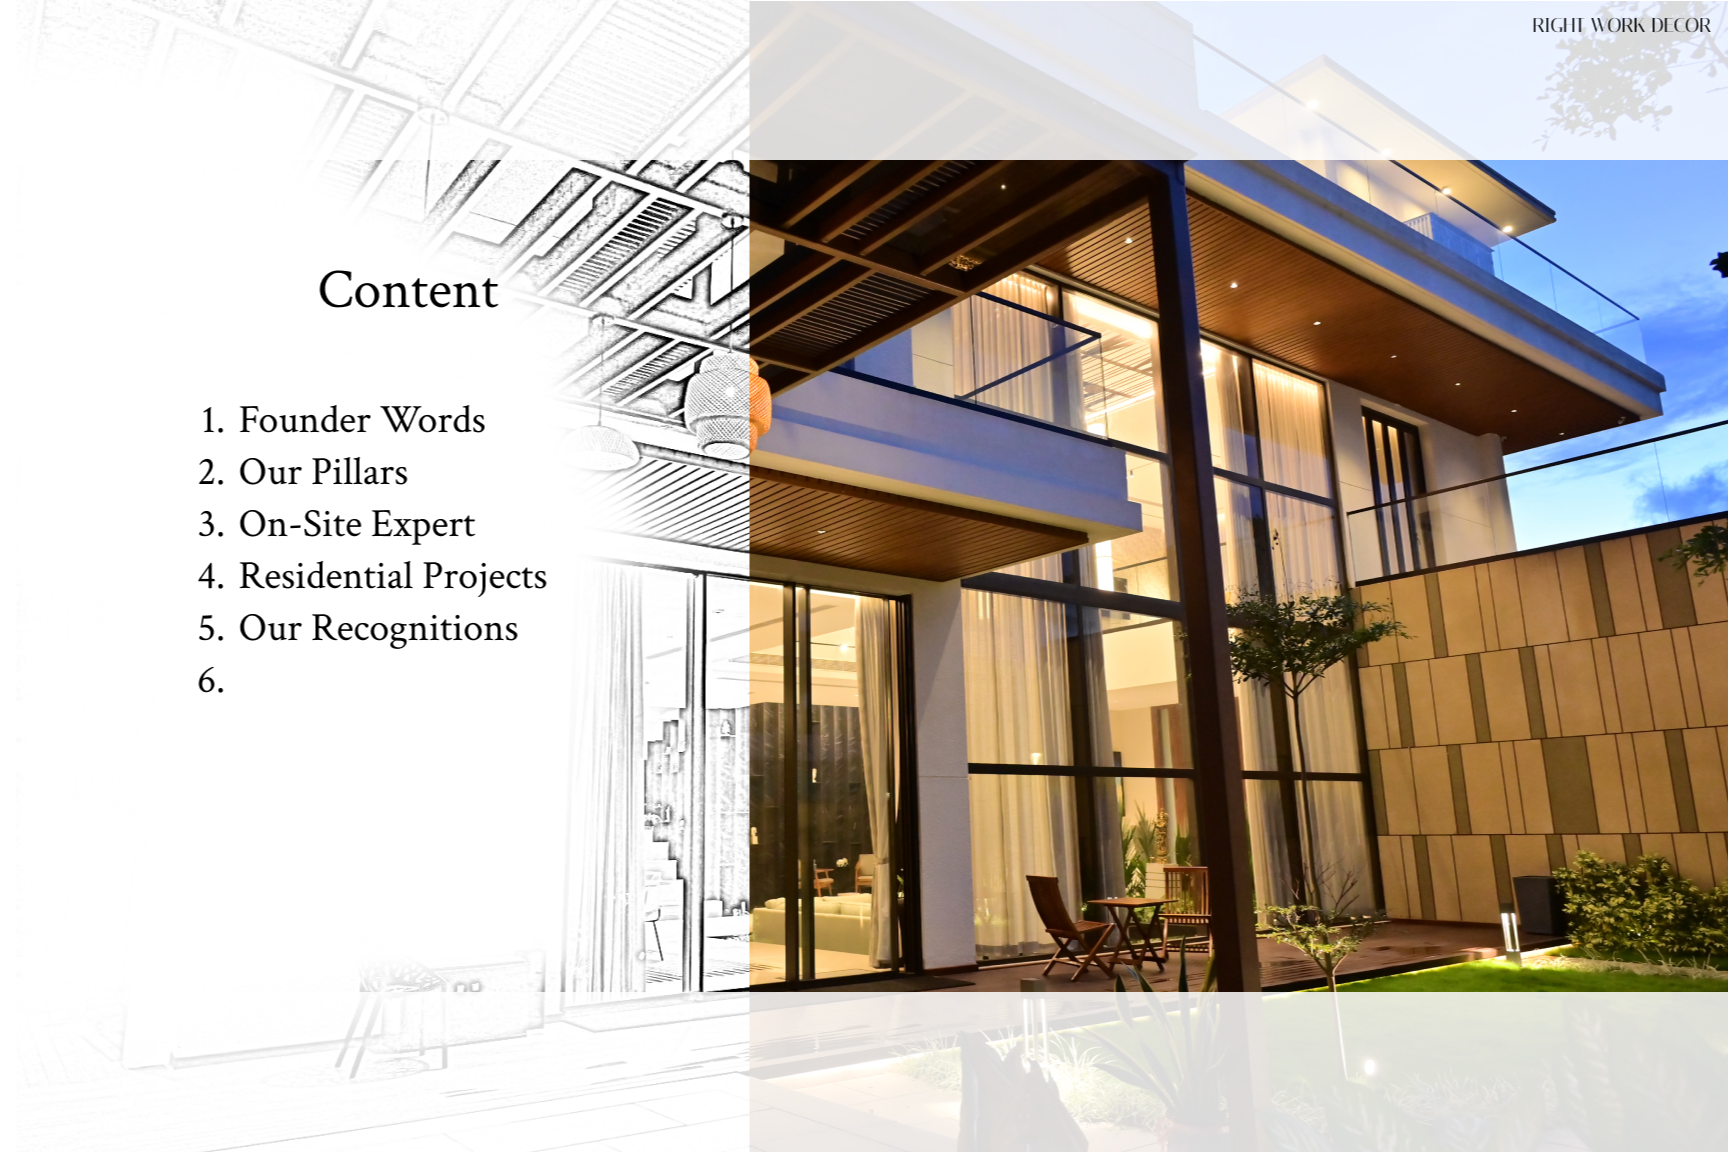
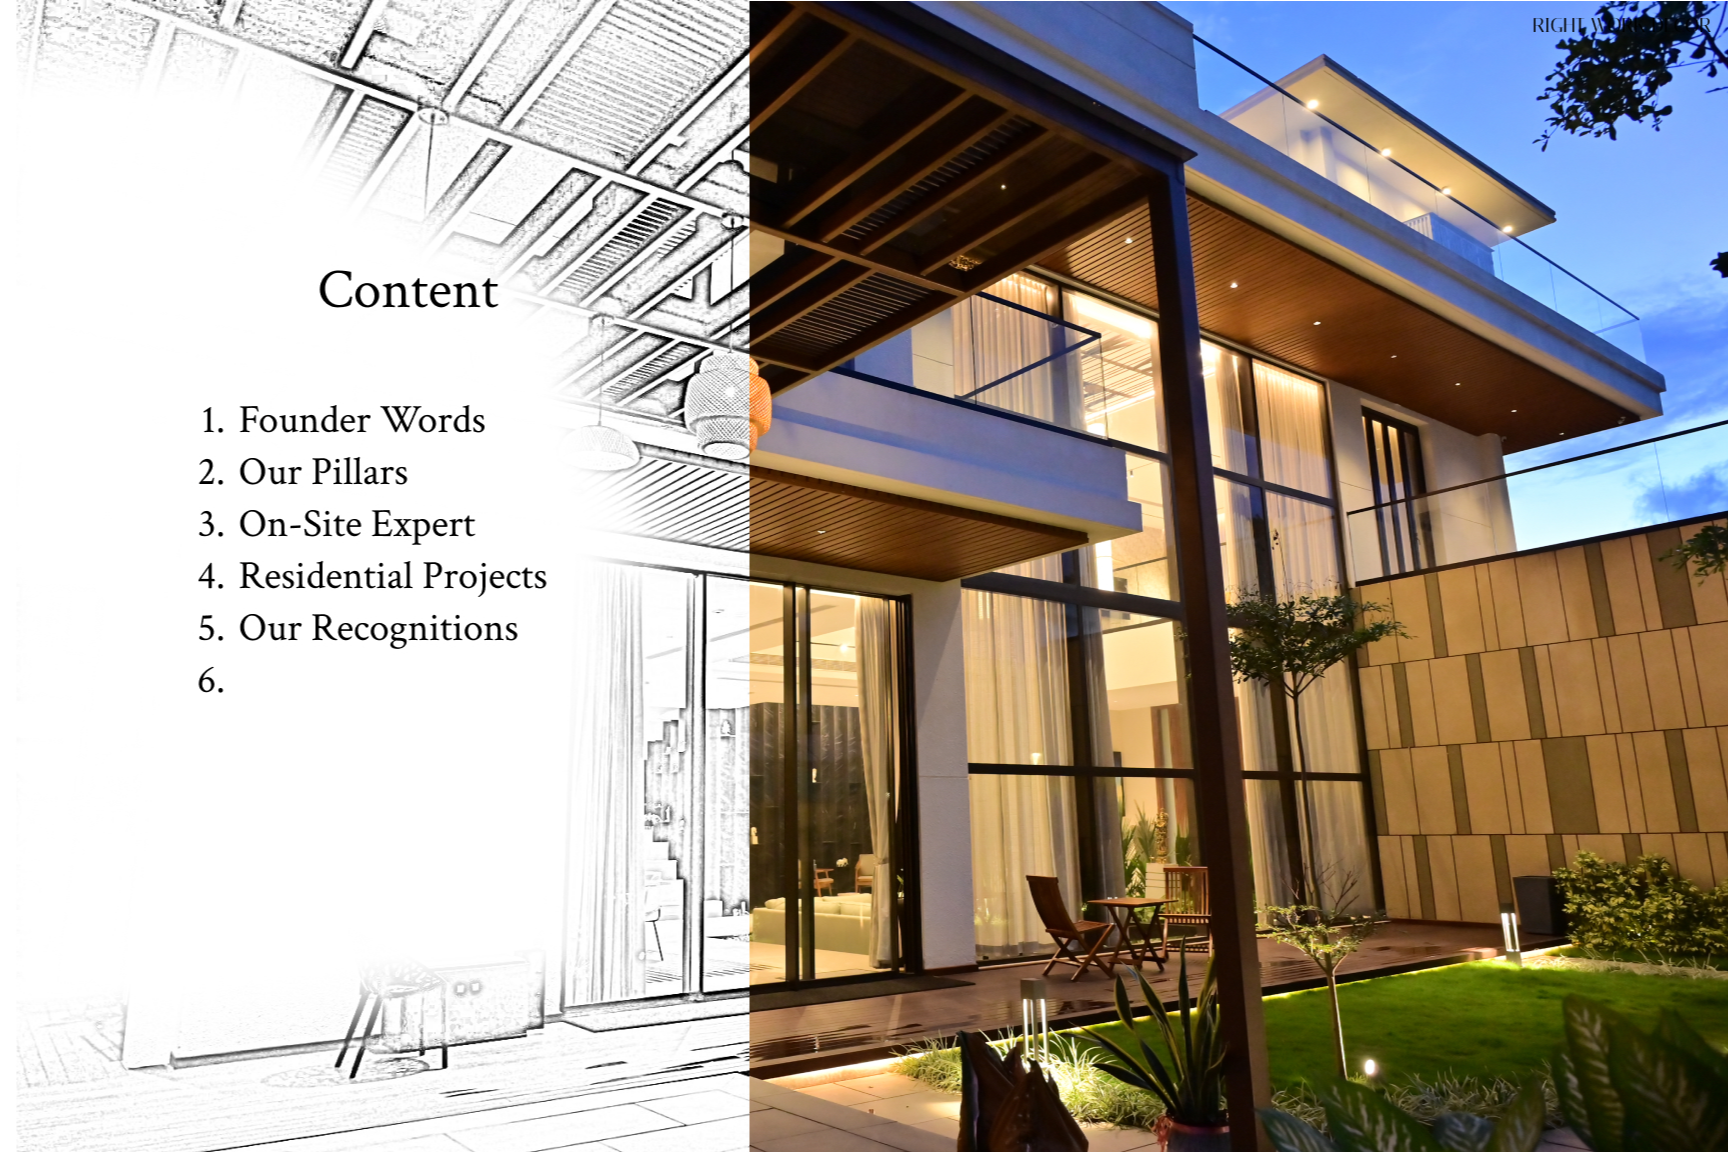
founder page

Changed region(s): [[0.0, 0.0, 1.0, 0.1562], [0.0625, 0.8438, 1.0, 1.0]]

diff --git a/Index.html b/Index.html
@@ -16,28 +16,35 @@
      <img src="2 Cover Page.jpg" alt="Cover Page" />
     </div>
     <div>
-      <img src="left-half.png" alt="" />
+      <img src="who are we.png" alt="" />
     </div>
     <div>
-      <img src="right-half.png" alt="" />
+      <img src="content.png" alt="" />
 
     </div>
     <div>
-      <img src="pillars_left.png" alt="" />
+      <img src="founder l.png" alt="" />
 
     </div>
     <div>
-      <img src="pillars_right.png" alt="" />
+      <img src="founder r.png" alt="" />
     </div>
        <div>
-      <img src="pillars_right.png" alt="" />
-    </div>
-       <div>
-      <img src="Tech_left.png" alt="" />
+      <img src="pillar l.png" />
     </div>
     <div>
-      <img src="Tech_right.png" alt="" />
+      <img src="pillar r.png" />
     </div>
+       <div>
+      <img src="tech l.png" alt="" />
+    </div>
+    <div>
+      <img src="tech r.png" alt="" />
+    </div>
+    <div>
+      <img src="2 Cover Page.jpg" alt="" />
+    </div>
+    
     <div class="hard"></div>
     <div class="hard">Thank You <small>~ HankTheTank</small></div>
   </div>

diff --git a/style.css b/style.css
@@ -41,14 +41,15 @@ body {
 	flex-direction: column;
 	justify-content: center;
 	align-items: center;
-    gap: 10px;
+    gap: 0;
     border: 1px solid rgba(0, 0, 0, 0.11);
 }
 
 .page img{
 	width: 100%;
+    height: 100%;
 	object-fit: cover;
-	margin: auto;
+	margin: 0;
 }
 
 .flipbook .page small{
